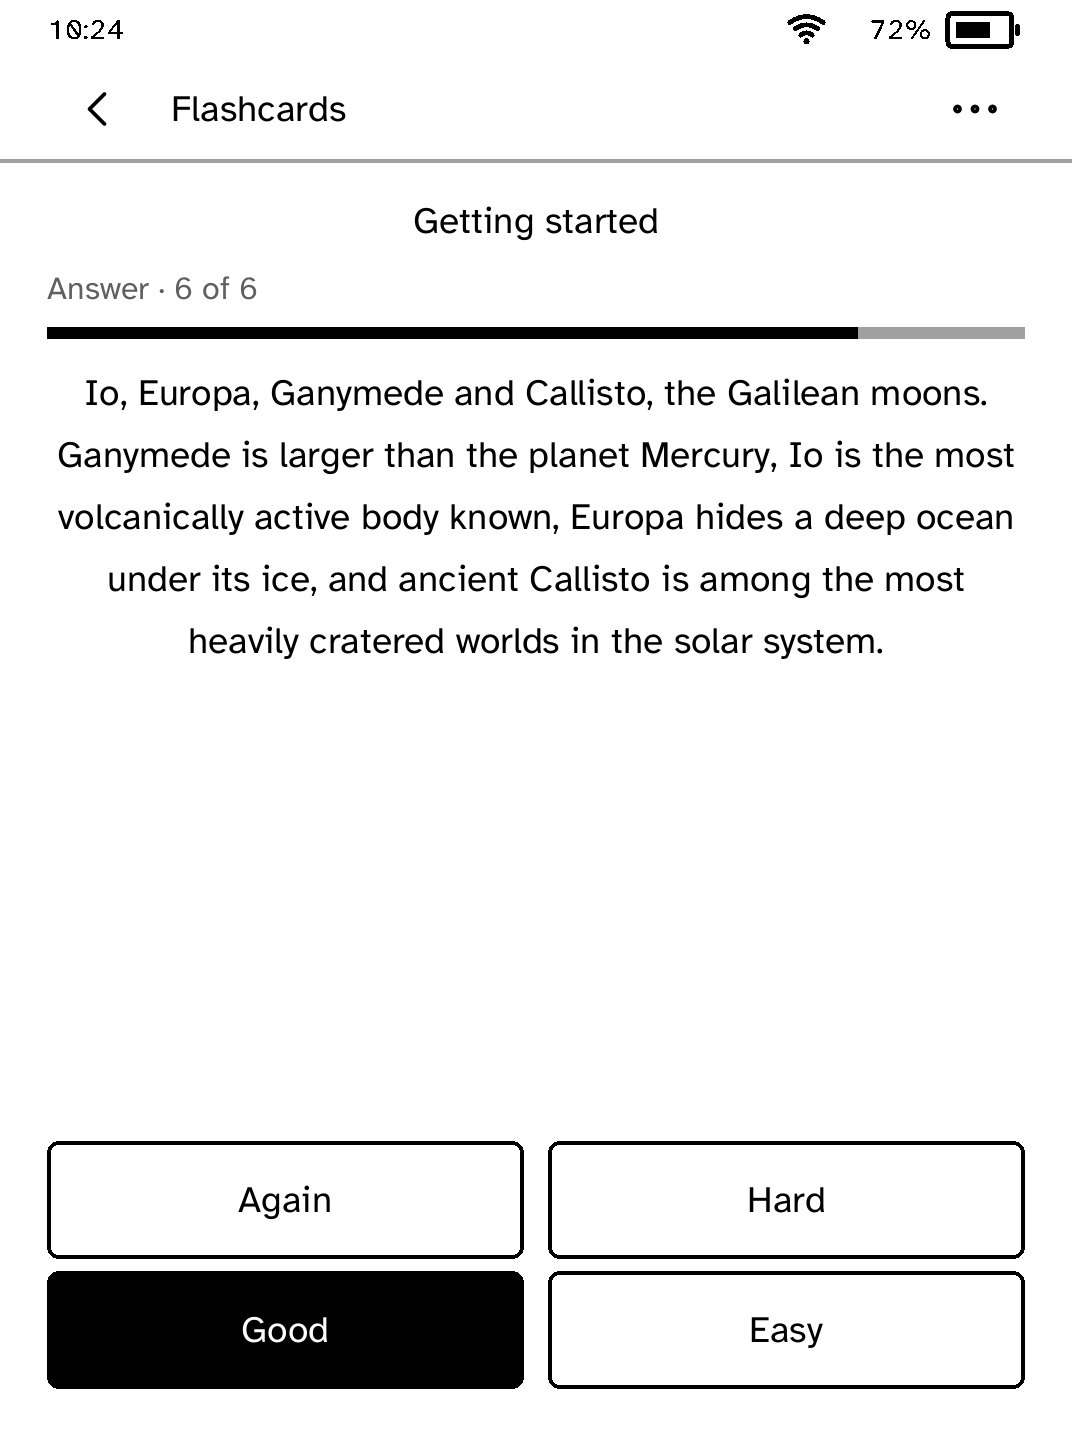
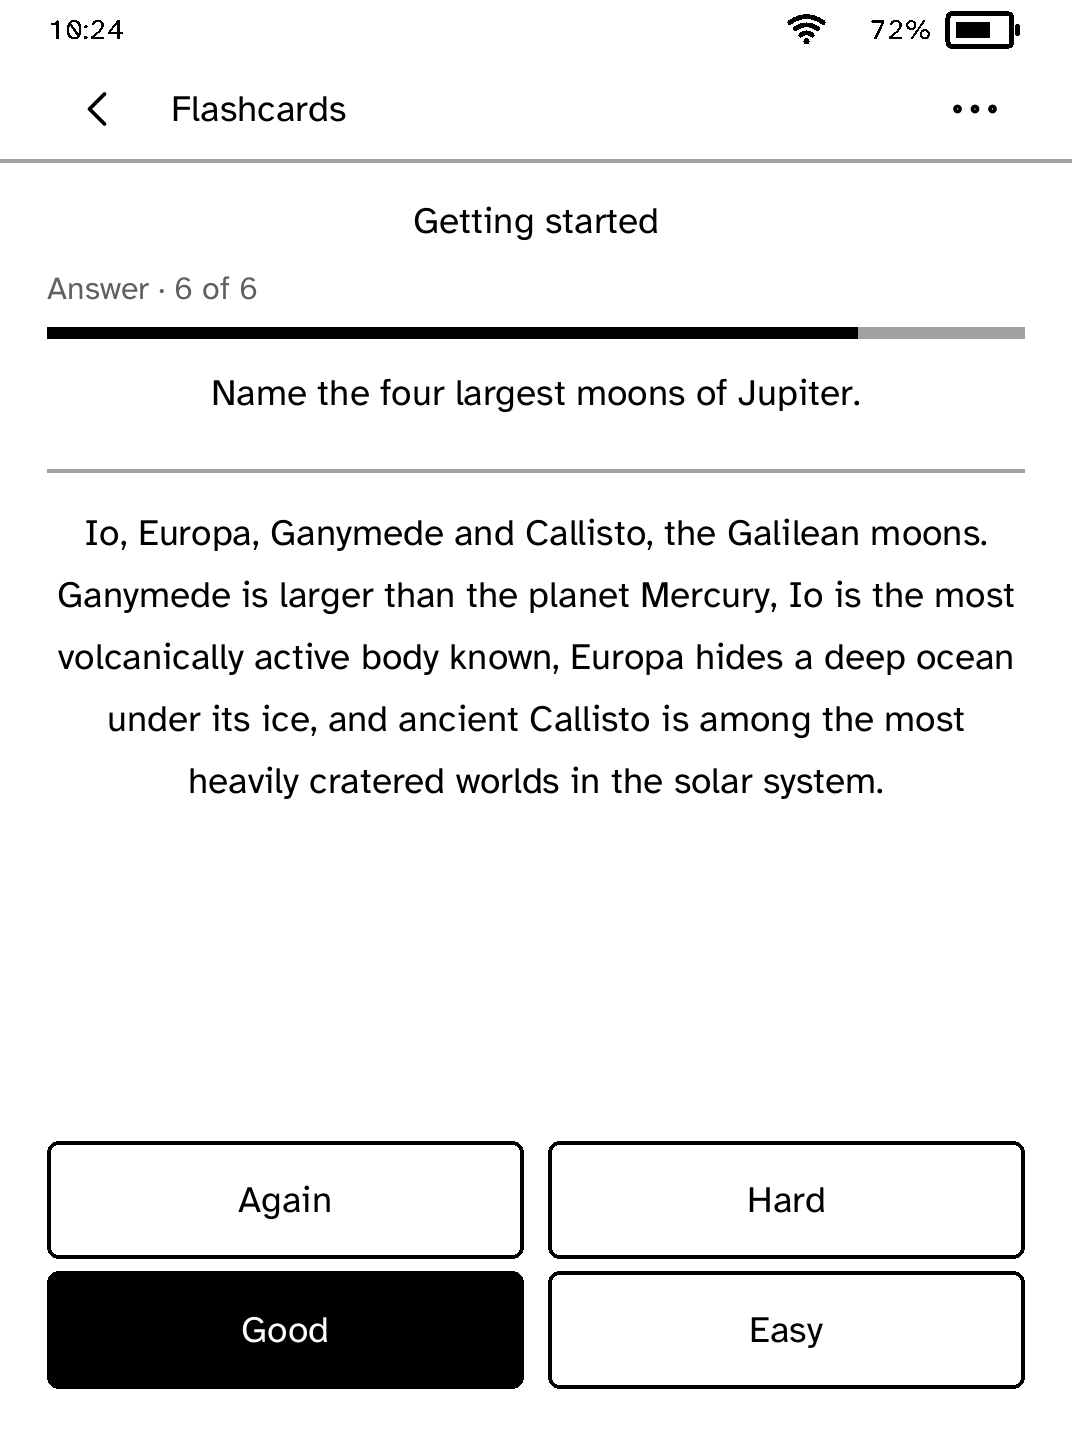
Show a flashcard's answer under its question
The answer side showed only the back of the card, so "Magnetic north."
stood alone and grading it meant remembering a screen that had gone.
The question now sits above the answer with a rule between them, unless
the card's own answer already repeats it, as most imported cards do.

Changed region(s): [[0.0308, 0.3108, 0.9543, 0.5594], [0.0924, 0.2486, 0.9235, 0.2797], [0.8619, 0.4972, 0.8927, 0.5283]]

diff --git a/docs/apps/flashcards/index.html b/docs/apps/flashcards/index.html
@@ -120,7 +120,7 @@
   </section>
   <section class="whats-new">
     <h2>New in 0.2.14</h2>
-    <p>Cards graded before the reader kept review dates come due again instead of always being days away.</p>
+    <p>An answer now shows under its question, and cards graded before the reader kept review dates come due again.</p>
   </section>
   <section class="panel prerequisites" aria-labelledby="prerequisites-title">
     <p class="eyebrow">App setup</p>

diff --git a/apps/flashcards/src/main.rs b/apps/flashcards/src/main.rs
@@ -123,6 +123,8 @@ struct ReviewScreenModel {
     pages: usize,
     completed: usize,
     total_cards: usize,
+    /// The question, shown above the answer on the answer's first page.
+    question: Option<StyledPage>,
 }
 
 #[allow(
@@ -506,7 +508,9 @@ impl Flashcards {
         let japanese_font = (matches!(
             card_text_font(side_text(card, self.answer)),
             Ok(CardTextFont::Japanese)
-        ) || matches!(card_text_font(&deck), Ok(CardTextFont::Japanese)))
+        ) || (self.answer
+            && matches!(card_text_font(&card.front), Ok(CardTextFont::Japanese)))
+            || matches!(card_text_font(&deck), Ok(CardTextFont::Japanese)))
         .then_some(self.japanese_font)
         .flatten();
         review_screen(
@@ -525,6 +529,9 @@ impl Flashcards {
                 pages: page_count,
                 completed,
                 total_cards: total,
+                question: (self.answer && page == 0)
+                    .then(|| question_above_answer(card))
+                    .flatten(),
             },
             &shown.text,
             &shown.spans,
@@ -832,6 +839,7 @@ impl Flashcards {
         });
         let deck = self.selected_deck_name();
         let japanese_font = (matches!(card_text_font(&text), Ok(CardTextFont::Japanese))
+            || (self.answer && matches!(card_text_font(&card.front), Ok(CardTextFont::Japanese)))
             || matches!(card_text_font(&deck), Ok(CardTextFont::Japanese)))
         .then_some(self.japanese_font)
         .flatten();
@@ -854,6 +862,7 @@ impl Flashcards {
             pages: 2,
             completed,
             total_cards: total,
+            question: self.answer.then(|| question_above_answer(card)).flatten(),
         };
         self.card_pages = paginate_review_text(&model, &text, &spans, context.metrics());
         self.card_page = self.card_page.min(self.card_pages.len().saturating_sub(1));
@@ -1610,6 +1619,15 @@ fn review_screen(model: &ReviewScreenModel, text: &str, spans: &[CardTextSpan]) 
     if let Some(picture) = model.picture {
         screen = screen.picture(picture, 38);
     }
+    if let Some(question) = &model.question {
+        screen = screen
+            .rich_text(
+                question.text.clone(),
+                ui_spans(&question.spans),
+                CARD_PRESENTATION,
+            )
+            .divider();
+    }
     let display_text = if text.trim().is_empty() && model.picture.is_none() {
         "No text was rendered for this side."
     } else {
@@ -1714,7 +1732,12 @@ fn paginate_review_text(
         .collect::<Vec<_>>();
     let mut pages = Vec::new();
     let mut start = 0;
+    // The question stands above the answer on its first page only, so the
+    // pages after it are measured without it.
+    let mut later = model.clone();
+    later.question = None;
     while start < text.len() {
+        let model = if pages.is_empty() { model } else { &later };
         let start_index = boundaries
             .binary_search(&start)
             .expect("page start is a character boundary");
@@ -1949,6 +1972,27 @@ fn image_for_side(card: &Card, answer: bool) -> Option<&kobo_flashcards_format::
                 && card.question_media_names.contains(&attachment.name)
         })
     }
+}
+
+/// The question to show above a card's answer, unless the answer already
+/// shows it.
+///
+/// An answer is read against its question: "Magnetic north." alone does not
+/// say what it answers, and grading it means remembering a screen that is
+/// gone. Most imported cards are written as the question, a rule and the
+/// answer already, and those keep the layout their author gave them.
+fn question_above_answer(card: &Card) -> Option<StyledPage> {
+    let question = card.front.trim();
+    if question.is_empty() || card.back.contains(question) {
+        return None;
+    }
+    let offset = card.front.len() - card.front.trim_start().len();
+    Some(styled_page(
+        &card.front,
+        &card.front_spans,
+        offset,
+        offset + question.len(),
+    ))
 }
 
 fn side_text(card: &Card, answer: bool) -> &str {
@@ -2198,6 +2242,7 @@ mod tests {
             pages: 1,
             completed: 2,
             total_cards: 18,
+            question: None,
         }
     }
 
@@ -2468,6 +2513,50 @@ mod tests {
             .deck_choices()
             .iter()
             .any(|choice| choice.due == 5));
+    }
+
+    #[test]
+    fn the_answer_is_shown_under_its_question_and_a_rule() {
+        use kobo_sdk::AppRunner;
+
+        let (mut values, mut blobs, mut writes) =
+            (TestMaps::new(), TestMaps::new(), TestMaps::new());
+        let mut runner = AppRunner::new(Flashcards {
+            fixed_day: Some(TEST_DAY),
+            ..Flashcards::default()
+        });
+        let commands = runner.start();
+        pump_transfers(&mut runner, commands, &mut values, &mut blobs, &mut writes);
+        for action in ["sample", "deck-0", "answer"] {
+            let commands = runner.action(action_id(action));
+            pump_transfers(&mut runner, commands, &mut values, &mut blobs, &mut writes);
+        }
+        let card = runner.app().current_card().expect("a card").clone();
+        let screen = runner.app().screen(&runner.context());
+        let order = screen
+            .nodes
+            .iter()
+            .filter_map(|node| match node {
+                kobo_sdk::Node::RichText { text, .. } if *text == card.front => Some("question"),
+                kobo_sdk::Node::Divider { .. } => Some("rule"),
+                kobo_sdk::Node::RichText { text, .. } if *text == card.back => Some("answer"),
+                _ => None,
+            })
+            .collect::<Vec<_>>();
+        assert_eq!(order, ["question", "rule", "answer"]);
+    }
+
+    #[test]
+    fn an_answer_that_already_repeats_its_question_is_shown_as_written() {
+        let mut card = fixture_card(1, 1);
+        card.front = "Capital of France?".to_owned();
+        card.back = "Capital of France?\n\nParis".to_owned();
+        assert!(question_above_answer(&card).is_none());
+        card.back = "Paris".to_owned();
+        assert_eq!(
+            question_above_answer(&card).map(|page| page.text),
+            Some("Capital of France?".to_owned())
+        );
     }
 
     #[test]

diff --git a/apps/flashcards/README.md b/apps/flashcards/README.md
@@ -10,7 +10,7 @@ computer and send them to the reader over Wi-Fi.
 </tr>
 <tr>
 <td width="50%" valign="top"><img width="300" src="screenshots/japanese.png" alt="A Japanese card"><br>A Japanese card</td>
-<td width="50%" valign="top"><img width="300" src="screenshots/long-answer.png" alt="A long answer, with controls in place"><br>A long answer, with controls in place</td>
+<td width="50%" valign="top"><img width="300" src="screenshots/long-answer.png" alt="A long answer under its question"><br>A long answer under its question</td>
 </tr>
 <tr>
 <td width="50%" valign="top"><img width="300" src="screenshots/media.png" alt="A card with an image: a star chart and its answer"><br>A card with an image: a star chart and its answer</td>
